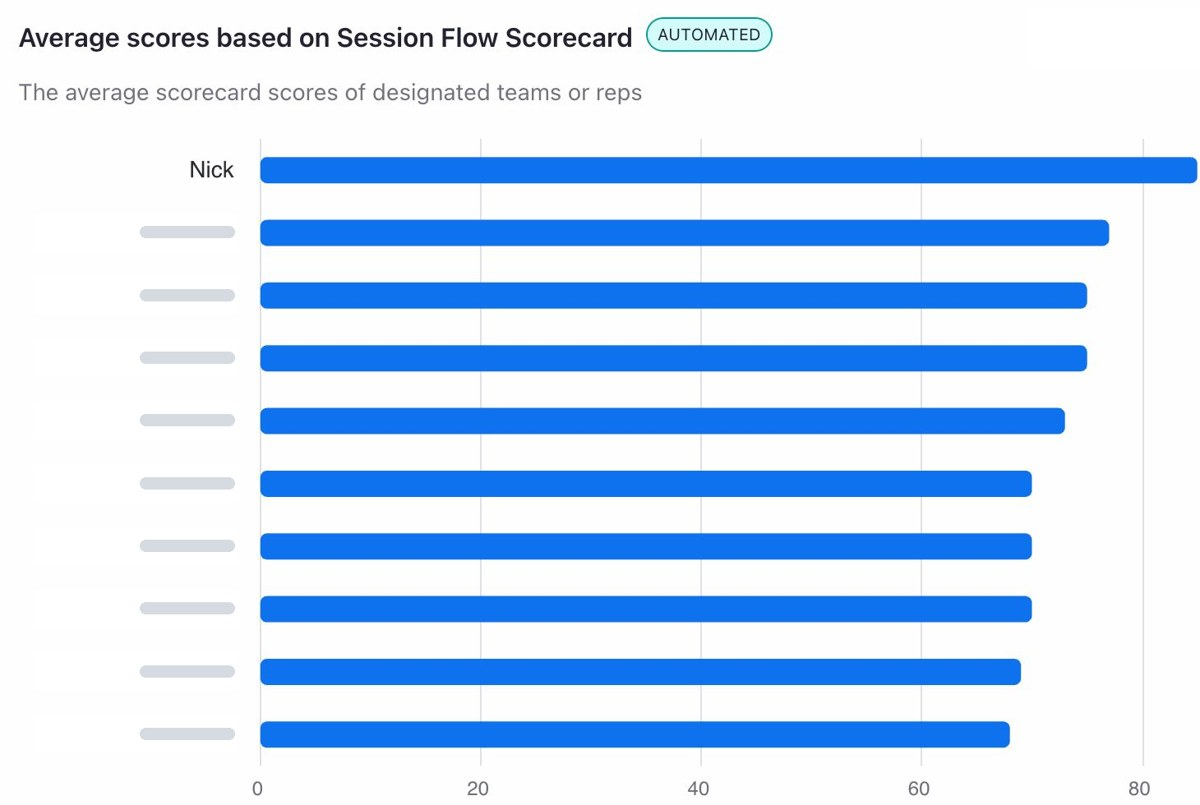
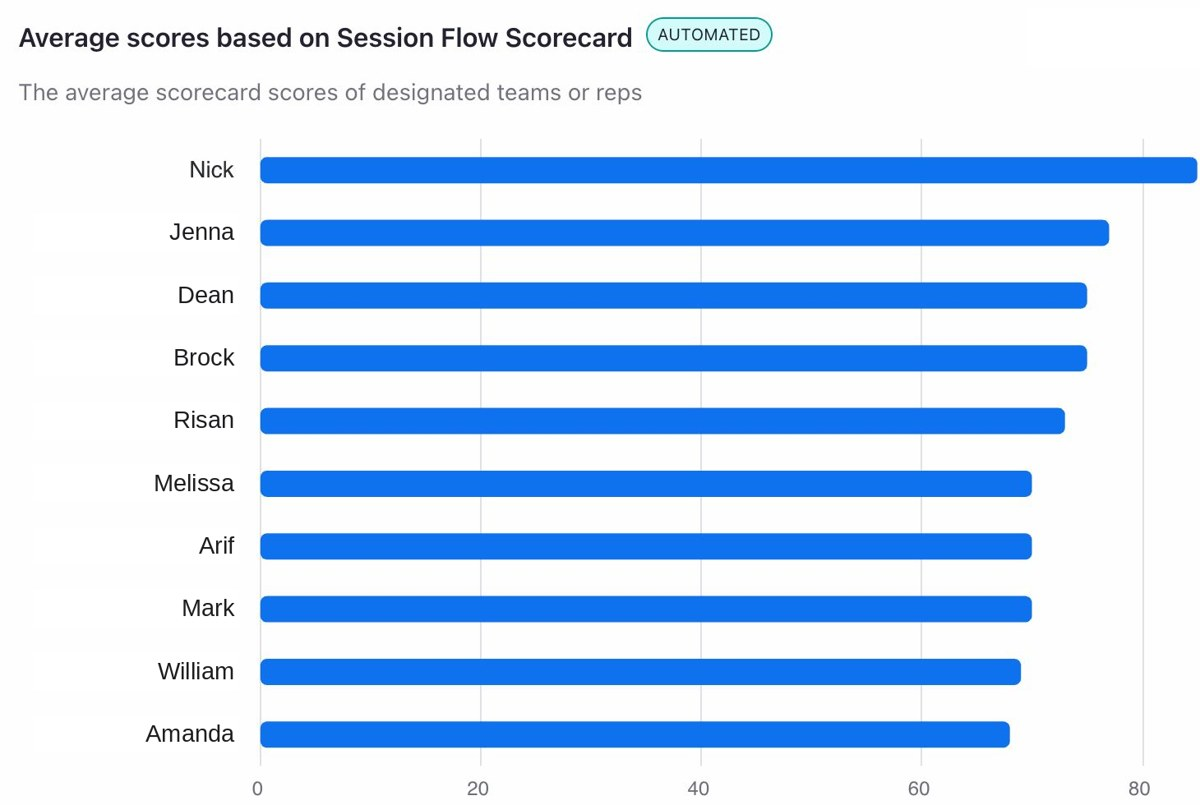
Zoom scorecard: show first names
Claude-Session: https://claude.ai/code/session_01T31o2VSfMCB8QaqiKuKXJq

diff --git a/index.html b/index.html
@@ -251,8 +251,8 @@ body{overflow-x:clip}
       <figcaption>HubSpot, all deals closed in July 2026. #1 of 14 reps, $128k clear of second. Other reps' names removed.</figcaption>
     </figure>
     <figure class="shot" style="margin-top:24px">
-      <img src="img/zoom-scorecard.jpg" alt="Zoom Revenue Accelerator Session Flow scorecard, average score by rep: Nick first at about 85, the next rep at about 77" loading="lazy">
-      <figcaption>Zoom Revenue Accelerator, automated Session Flow scorecard averaged across my scored calls. No. 1 on the team, scored by the software rather than a manager. Other reps' names removed.</figcaption>
+      <img src="img/zoom-scorecard.jpg" alt="Zoom Revenue Accelerator Session Flow scorecard, average score by rep: Nick first at about 85, Jenna next at about 77" loading="lazy">
+      <figcaption>Zoom Revenue Accelerator, automated Session Flow scorecard averaged across my scored calls. No. 1 on the team, scored by the software rather than a manager. Surnames removed.</figcaption>
     </figure>
     <div class="month">
       <span class="label">July 2026 · The month behind the chart</span>
